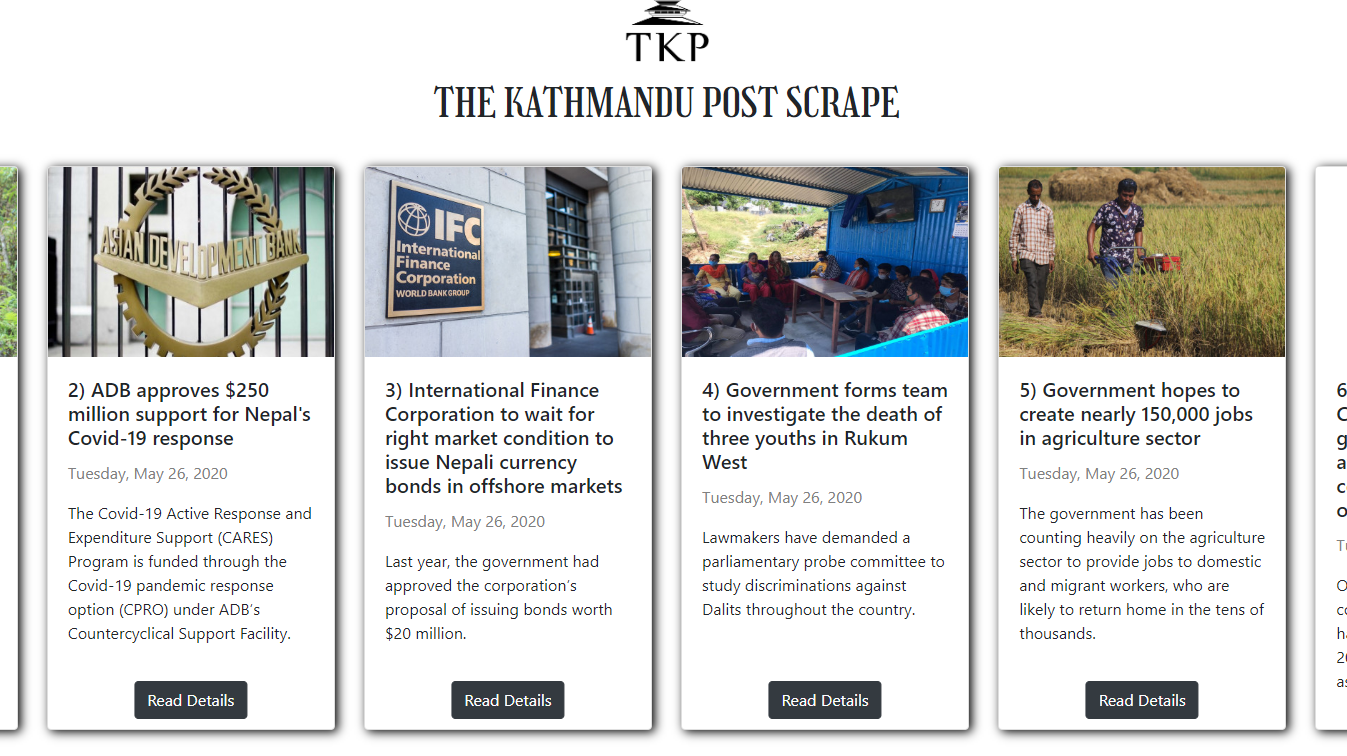
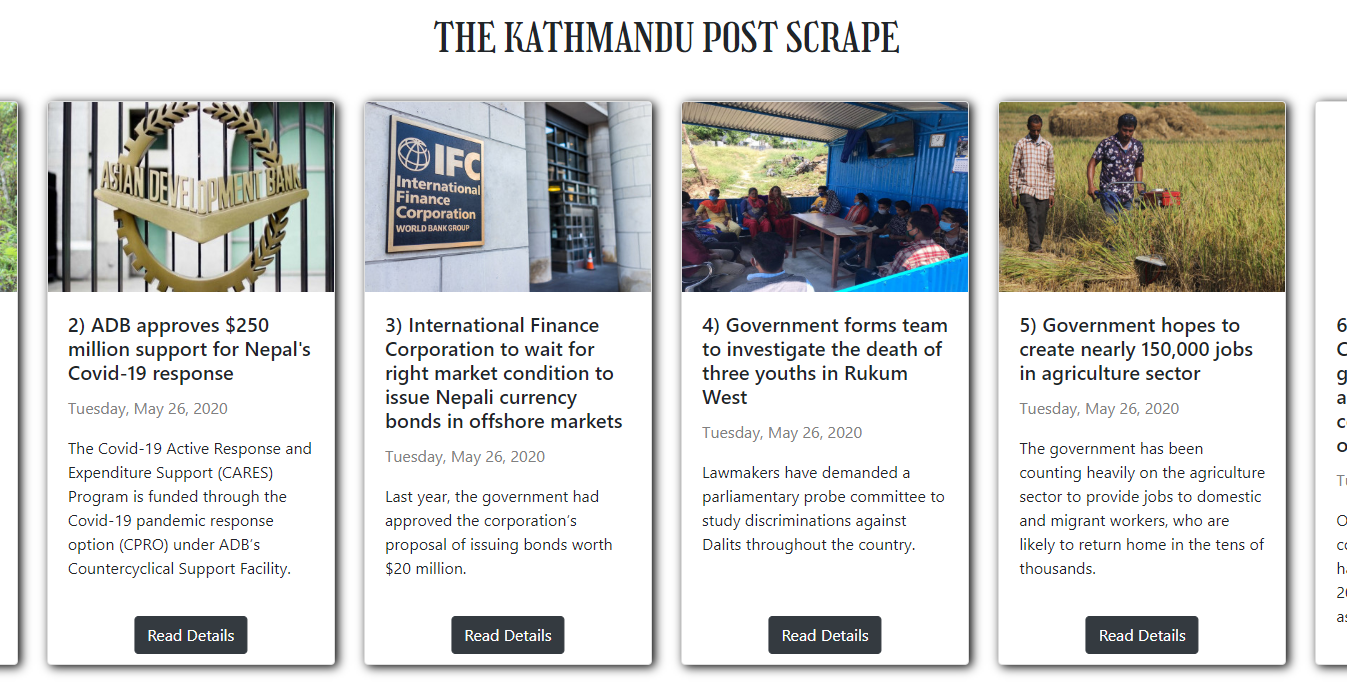
Refactored

diff --git a/The_Kathmandu_Post_Scrape/templates/homepage.html b/The_Kathmandu_Post_Scrape/templates/homepage.html
@@ -22,9 +22,7 @@
   </head>
   <body>
     <br />
-    <div class="title_img">
-      <img src="{% static 'Images/tkp.png' %}" alt=".img" />
-    </div>
+    <div class="title_img"></div>
     <h1 class="Title">The Kathmandu Post Scrape</h1>
     <!-- Crawl Error Message -->
     {% if messages %}
